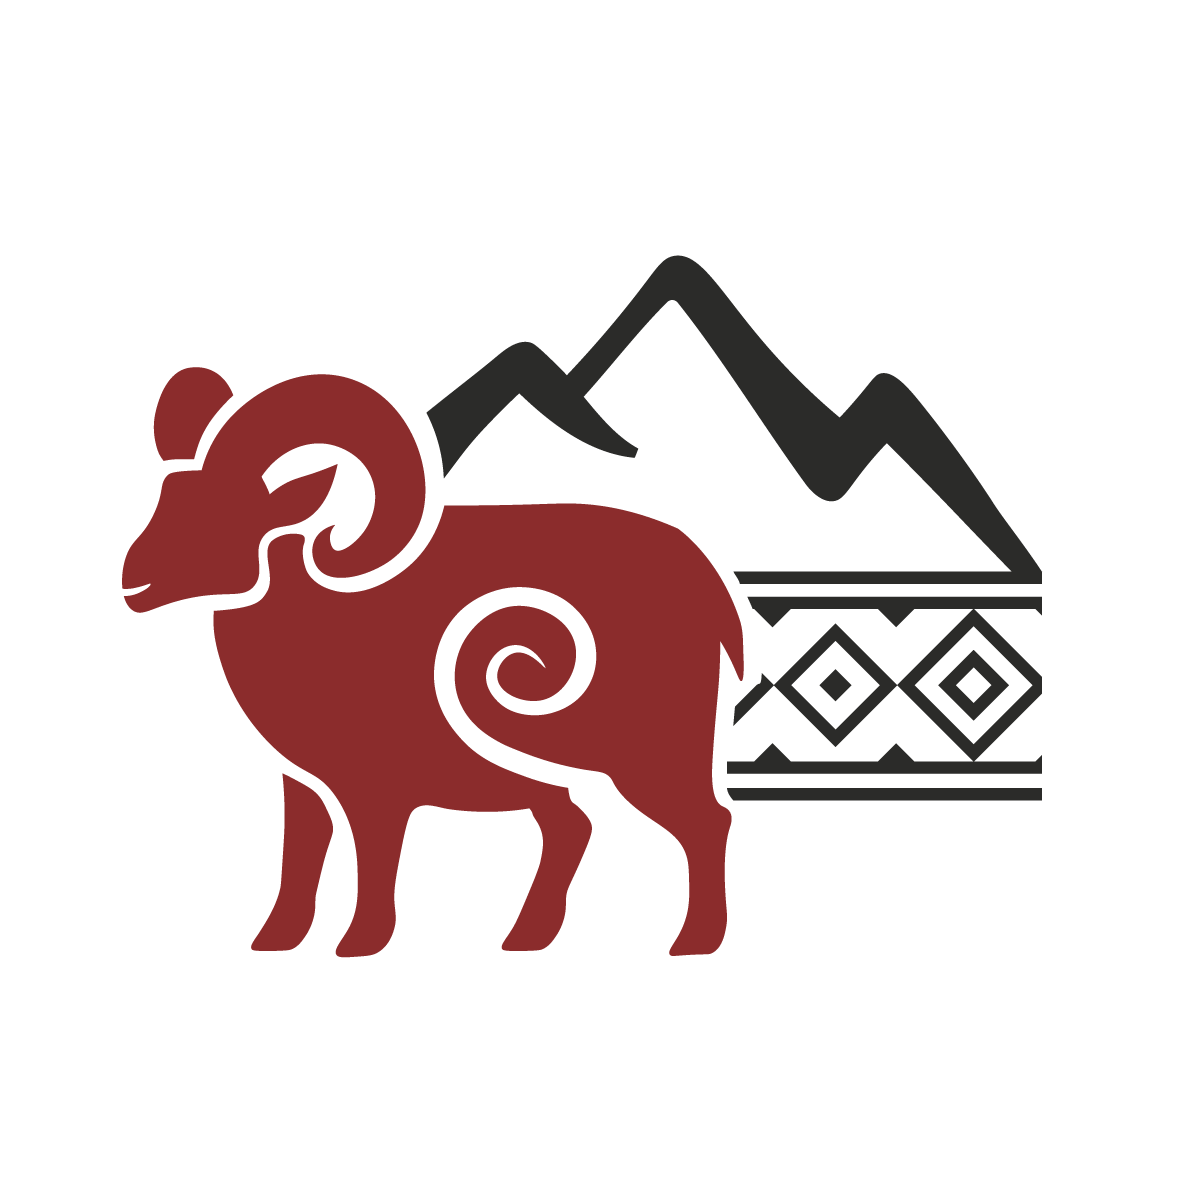
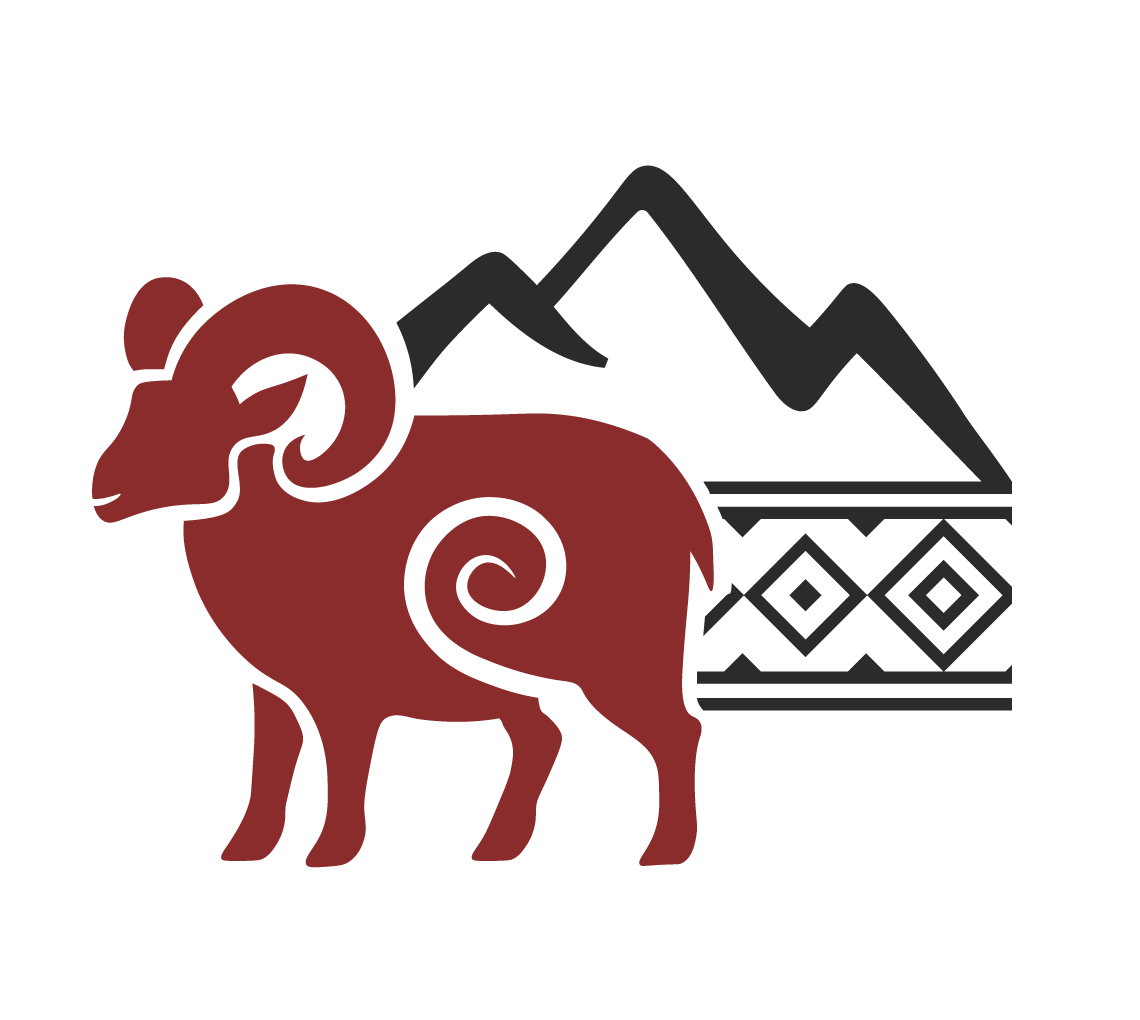
background image loading fix and gallery page update

Changed region(s): [[0.0614, 0.152, 0.8904, 0.851]]

diff --git a/src/app/gallery/page.tsx b/src/app/gallery/page.tsx
@@ -1,6 +1,6 @@
 'use client';
 
-import { useState } from 'react';
+import { useState, useEffect, useCallback } from 'react';
 import { motion, AnimatePresence } from 'framer-motion';
 import Image from 'next/image';
 import AnimateIn from '@/components/AnimateIn';
@@ -9,8 +9,8 @@ import { galleryItems } from '@/lib/content';
 const categories = ['All', 'Sourcing', 'Materials', 'Craft', 'Operations'];
 
 const galleryData = [
-  { id: 1,  label: 'New Zealand Pastoral Farm',            category: 'Sourcing',    height: 320, bg: '#4A6741', image: '/images/sheep-farm-nz.png' },
-  { id: 2,  label: 'Wool Inspection at Source',            category: 'Sourcing',    height: 220, bg: '#C9B49A', image: '/images/merino-wool-inspection.png' },
+  { id: 1,  label: 'New Zealand Pastoral Farm',            category: 'Sourcing',    height: 320, bg: '#4A6741', image: '/images/sheep-farm-nz.jpg' },
+  { id: 2,  label: 'Wool Inspection at Source',            category: 'Sourcing',    height: 220, bg: '#C9B49A', image: '/images/merino-wool-inspection.jpg' },
   { id: 3,  label: 'Hand-Knotted Carpet',                  category: 'Craft',       height: 280, bg: '#8B2C2C', image: '/images/wool-carpet-dark.jpg' },
   { id: 4,  label: 'Kathmandu Bale Storage',               category: 'Operations',  height: 220, bg: '#3D3D3A', image: '/images/wool-in-bales.webp' },
   { id: 5,  label: 'Sheep Station, New Zealand',           category: 'Sourcing',    height: 360, bg: '#6B7D5E', image: '/images/sheep-barn-nz.jpg' },
@@ -20,7 +20,7 @@ const galleryData = [
   { id: 9,  label: 'NZ Farm Landscape',                    category: 'Sourcing',    height: 300, bg: '#7A9060', image: '/images/nz-farm-landscape.jpg' },
   { id: 10, label: 'Industrial Dyeing Operations',         category: 'Operations',  height: 280, bg: '#4A2A1A', image: '/images/dyeing-factory-ops.webp' },
   { id: 11, label: 'Knitting Production',                  category: 'Craft',       height: 240, bg: '#8B4A1A', image: '/images/wool-knitting.webp' },
-  { id: 12, label: 'NZ Wool Export Warehouse',             category: 'Operations',  height: 220, bg: '#3A3A36', image: '/images/wool-bales-warehouse.png' },
+  { id: 12, label: 'NZ Wool Export Warehouse',             category: 'Operations',  height: 220, bg: '#3A3A36', image: '/images/wool-bales-warehouse.jpg' },
   { id: 13, label: 'Industrial Carding Machine',           category: 'Operations',  height: 260, bg: '#2A3A2A', image: '/images/carding-industrial.jpg' },
   { id: 14, label: 'Team Visit, New Zealand',              category: 'Sourcing',    height: 300, bg: '#4A3828', image: '/images/team-wool-inspection-nz.jpg' },
   { id: 15, label: 'Raw Wool Processing, Kathmandu',       category: 'Operations',  height: 220, bg: '#D0C0A8', image: '/images/raw-scoured-wool-new.webp' },
@@ -29,10 +29,33 @@ const galleryData = [
 
 export default function GalleryPage() {
   const [activeCategory, setActiveCategory] = useState('All');
+  const [lightboxIndex, setLightboxIndex] = useState<number | null>(null);
 
   const filtered = activeCategory === 'All'
     ? galleryData
     : galleryData.filter((item) => item.category === activeCategory);
+
+  const openLightbox = (index: number) => setLightboxIndex(index);
+  const closeLightbox = () => setLightboxIndex(null);
+
+  const goNext = useCallback(() => {
+    setLightboxIndex((i) => (i !== null ? (i + 1) % filtered.length : null));
+  }, [filtered.length]);
+
+  const goPrev = useCallback(() => {
+    setLightboxIndex((i) => (i !== null ? (i - 1 + filtered.length) % filtered.length : null));
+  }, [filtered.length]);
+
+  useEffect(() => {
+    if (lightboxIndex === null) return;
+    const handler = (e: KeyboardEvent) => {
+      if (e.key === 'Escape') closeLightbox();
+      if (e.key === 'ArrowRight') goNext();
+      if (e.key === 'ArrowLeft') goPrev();
+    };
+    window.addEventListener('keydown', handler);
+    return () => window.removeEventListener('keydown', handler);
+  }, [lightboxIndex, goNext, goPrev]);
 
   return (
     <>
@@ -43,6 +66,8 @@ export default function GalleryPage() {
           alt="Tal Barahi team visiting New Zealand wool farm"
           fill
           priority
+          placeholder="blur"
[1 lines of base64/hex data omitted]
           className="object-cover object-center"
           sizes="100vw"
         />
@@ -117,6 +142,7 @@ export default function GalleryPage() {
                   animate={{ opacity: 1, scale: 1 }}
                   transition={{ delay: i * 0.05, duration: 0.5, ease: [0.25, 0.1, 0.25, 1] }}
                   whileHover={{ scale: 1.02 }}
+                  onClick={() => openLightbox(i)}
                 >
                   {/* Real photo if available */}
                   {item.image && (
@@ -192,6 +218,102 @@ export default function GalleryPage() {
           </AnimateIn>
         </div>
       </section>
+
+      {/* ─── LIGHTBOX ─── */}
+      <AnimatePresence>
+        {lightboxIndex !== null && (
+          <motion.div
+            className="fixed inset-0 z-50 flex items-center justify-center"
+            initial={{ opacity: 0 }}
+            animate={{ opacity: 1 }}
+            exit={{ opacity: 0 }}
+            transition={{ duration: 0.25 }}
+          >
+            {/* Backdrop */}
+            <div
+              className="absolute inset-0 bg-black/90 backdrop-blur-sm"
+              onClick={closeLightbox}
+            />
+
+            {/* Image container */}
+            <motion.div
+              className="relative z-10 max-w-5xl w-full mx-4 md:mx-12"
+              initial={{ scale: 0.94, opacity: 0 }}
+              animate={{ scale: 1, opacity: 1 }}
+              exit={{ scale: 0.94, opacity: 0 }}
+              transition={{ duration: 0.3, ease: [0.25, 0.1, 0.25, 1] }}
+            >
+              <div
+                className="relative w-full rounded-sm overflow-hidden"
+                style={{ maxHeight: '80vh', background: filtered[lightboxIndex].bg }}
+              >
+                <Image
+                  src={filtered[lightboxIndex].image}
+                  alt={filtered[lightboxIndex].label}
+                  width={1200}
+                  height={800}
+                  className="object-contain w-full"
+                  style={{ maxHeight: '80vh' }}
+                  sizes="100vw"
+                />
+                <div className="absolute bottom-0 left-0 right-0 p-5 bg-gradient-to-t from-black/70 to-transparent">
+                  <p
+                    className="text-white text-lg font-semibold"
+                    style={{ fontFamily: '"Cormorant Garamond", serif', fontStyle: 'italic' }}
+                  >
+                    {filtered[lightboxIndex].label}
+                  </p>
+                  <p className="text-white/60 text-xs tracking-widest uppercase mt-1 font-sans">
+                    {filtered[lightboxIndex].category}
+                  </p>
+                </div>
+              </div>
+
+              {/* Counter */}
+              <p className="text-center text-white/40 text-xs font-sans tracking-widest mt-3 uppercase">
+                {lightboxIndex + 1} / {filtered.length}
+              </p>
+            </motion.div>
+
+            {/* Prev button */}
+            <button
+              onClick={(e) => { e.stopPropagation(); goPrev(); }}
+              className="absolute left-4 md:left-8 z-20 w-11 h-11 rounded-full flex items-center justify-center transition-opacity duration-200 hover:opacity-80"
+              style={{ background: 'rgba(253,249,247,0.12)', border: '1px solid rgba(253,249,247,0.2)', color: '#FDF9F7' }}
+              aria-label="Previous image"
+            >
+              <svg width="18" height="18" viewBox="0 0 24 24" fill="none" stroke="currentColor" strokeWidth="2" strokeLinecap="round" strokeLinejoin="round">
+                <polyline points="15 18 9 12 15 6" />
+              </svg>
+            </button>
+
+            {/* Next button */}
+            <button
+              onClick={(e) => { e.stopPropagation(); goNext(); }}
+              className="absolute right-4 md:right-8 z-20 w-11 h-11 rounded-full flex items-center justify-center transition-opacity duration-200 hover:opacity-80"
+              style={{ background: 'rgba(253,249,247,0.12)', border: '1px solid rgba(253,249,247,0.2)', color: '#FDF9F7' }}
+              aria-label="Next image"
+            >
+              <svg width="18" height="18" viewBox="0 0 24 24" fill="none" stroke="currentColor" strokeWidth="2" strokeLinecap="round" strokeLinejoin="round">
+                <polyline points="9 18 15 12 9 6" />
+              </svg>
+            </button>
+
+            {/* Close button */}
+            <button
+              onClick={closeLightbox}
+              className="absolute top-4 right-4 md:top-6 md:right-6 z-20 w-10 h-10 rounded-full flex items-center justify-center transition-opacity duration-200 hover:opacity-80"
+              style={{ background: 'rgba(253,249,247,0.12)', border: '1px solid rgba(253,249,247,0.2)', color: '#FDF9F7' }}
+              aria-label="Close lightbox"
+            >
+              <svg width="16" height="16" viewBox="0 0 24 24" fill="none" stroke="currentColor" strokeWidth="2" strokeLinecap="round" strokeLinejoin="round">
+                <line x1="18" y1="6" x2="6" y2="18" />
+                <line x1="6" y1="6" x2="18" y2="18" />
+              </svg>
+            </button>
+          </motion.div>
+        )}
+      </AnimatePresence>
     </>
   );
 }

diff --git a/src/app/wool-categories/page.tsx b/src/app/wool-categories/page.tsx
@@ -16,7 +16,7 @@ const categoryImages: Record<number, string> = {
   7: '/images/felting-wool-roving.jpg',      // Felting Wool
   8: '/images/wool-samples-sunlit.jpg',      // Fine Micron Wool
   9: '/images/wool-knitting.webp',           // Knitting Yarn Wool
-  10: '/images/wool-bales-warehouse.png',    // Industrial Bulk Supply
+  10: '/images/wool-bales-warehouse.jpg',    // Industrial Bulk Supply
 };
 
 const categoryObjectPos: Record<number, string> = {
@@ -38,10 +38,12 @@ export default function WoolCategoriesPage() {
       {/* Header */}
       <section className="pt-40 pb-24 bg-brand-charcoal relative overflow-hidden">
         <Image
-          src="/images/sheep-farm-nz.png"
+          src="/images/sheep-farm-nz.jpg"
           alt="New Zealand sheep farm — source of premium wool"
           fill
           priority
+          placeholder="blur"
[1 lines of base64/hex data omitted]
           className="object-cover object-center"
           sizes="100vw"
         />

diff --git a/src/components/Footer.tsx b/src/components/Footer.tsx
@@ -28,9 +28,9 @@ export default function Footer() {
               <Image
                 src="/logo.png"
                 alt="Tal Barahi Handicraft"
-                width={44}
-                height={44}
-                className="w-11 h-11 brightness-0 invert opacity-80"
+                width={64}
+                height={64}
+                className="w-16 h-16 brightness-0 invert opacity-80"
               />
               <div className="flex flex-col leading-none">
                 <span

diff --git a/src/components/Navigation.tsx b/src/components/Navigation.tsx
@@ -61,9 +61,9 @@ export default function Navigation() {
             <Image
               src="/logo.png"
               alt="Tal Barahi Handicraft"
-              width={48}
-              height={48}
-              className="w-11 h-11 md:w-12 md:h-12"
+              width={64}
+              height={64}
+              className="w-12 h-12 md:w-16 md:h-16"
             />
             <div className="flex flex-col leading-none">
               <span

diff --git a/src/app/page.tsx b/src/app/page.tsx
@@ -85,6 +85,9 @@ export default function HomePage() {
             fill
             priority
             quality={90}
+            placeholder="blur"
[1 lines of base64/hex data omitted]
+            sizes="100vw"
             className="object-cover object-center"
           />
         </motion.div>
@@ -149,7 +152,7 @@ export default function HomePage() {
             animate={{ opacity: 1, y: 0 }}
             transition={{ duration: 1.1, delay: 0.08, ease: [0.25, 0.1, 0.25, 1] }}
           >
-            From New Zealand Wool to Nepalese Craft.
+            From New Zealand Wool to Nepalese Craft Since 1994.
           </motion.h1>
 
           <motion.p

diff --git a/src/app/industries/page.tsx b/src/app/industries/page.tsx
@@ -13,7 +13,7 @@ const industryImages: Record<number, string> = {
   4: '/images/dyed-wool-rolls.jpg',
   5: '/images/wool-samples-sunlit.jpg',
   6: '/images/natural-wool-raw.jpeg',
-  7: '/images/wool-bales-warehouse.png',
+  7: '/images/wool-bales-warehouse.jpg',
 };
 
 export default function IndustriesPage() {
@@ -29,6 +29,8 @@ export default function IndustriesPage() {
           alt="Traditional Nepali carved wood architecture"
           fill
           priority
+          placeholder="blur"
[1 lines of base64/hex data omitted]
           className="object-cover object-center"
           sizes="100vw"
         />

diff --git a/src/app/about/page.tsx b/src/app/about/page.tsx
@@ -39,6 +39,8 @@ export default function AboutPage() {
           alt="Tal Barahi partners at a New Zealand farm"
           fill
           priority
+          placeholder="blur"
[1 lines of base64/hex data omitted]
           className="object-cover object-center"
           sizes="100vw"
         />

diff --git a/src/app/certifications/page.tsx b/src/app/certifications/page.tsx
@@ -43,6 +43,8 @@ export default function CertificationsPage() {
           alt="SGS testing facility"
           fill
           priority
+          placeholder="blur"
[1 lines of base64/hex data omitted]
           className="object-cover object-top"
           sizes="100vw"
         />

diff --git a/src/app/contact/page.tsx b/src/app/contact/page.tsx
@@ -42,6 +42,8 @@ export default function ContactPage() {
           alt="Boudhanath Stupa, Kathmandu"
           fill
           priority
+          placeholder="blur"
[1 lines of base64/hex data omitted]
           className="object-cover object-center"
           sizes="100vw"
         />

diff --git a/src/app/insights/page.tsx b/src/app/insights/page.tsx
@@ -25,6 +25,8 @@ export default function InsightsPage() {
           alt="Nepal mountains with prayer flags"
           fill
           priority
+          placeholder="blur"
[1 lines of base64/hex data omitted]
           className="object-cover object-center"
           sizes="100vw"
         />

diff --git a/src/app/leadership/page.tsx b/src/app/leadership/page.tsx
@@ -23,6 +23,8 @@ export default function LeadershipPage() {
           alt="Tal Barahi founding partners"
           fill
           priority
+          placeholder="blur"
[1 lines of base64/hex data omitted]
           className="object-cover object-top"
           sizes="100vw"
         />